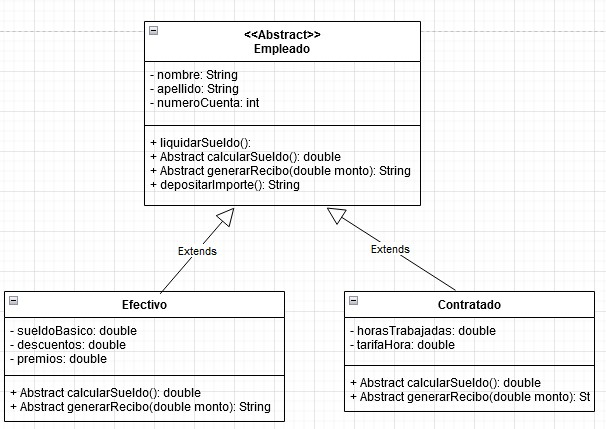
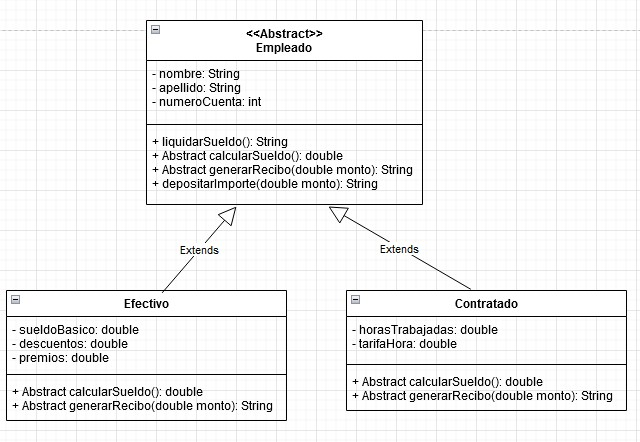
Trabajo 6 terminado

diff --git a/Ejercicio 6/src/TemplateMethod/Empleado.java b/Ejercicio 6/src/TemplateMethod/Empleado.java
@@ -11,29 +11,34 @@ public abstract class Empleado {
         this.numeroCuenta = numeroCuenta;
     }
 
-    public void liquidarSueldo() {
+    public String liquidarSueldo() {
         double sueldoTotal = calcularSueldo();
+        String respuesta = "Error";
         if (sueldoTotal < 0.1) {
             try {
-                throw new Exception("Error, al intentar calcular la liquidacion, el sueldo no puede ser 0 o menor.");
+                throw new Exception("Error, al intentar calcular la liquidación, el sueldo no puede ser 0 o menor.");
             } catch (Exception e) {
                 e.printStackTrace();
             }
         } else {
             String recibo = generarRecibo(sueldoTotal);
-            depositarImporte(sueldoTotal, recibo);
+            respuesta = depositarImporte(sueldoTotal, recibo);
         }
-
+        return respuesta;
     }
 
     public abstract double calcularSueldo();
 
     public abstract String generarRecibo(double monto);
 
-    public void depositarImporte(double monto, String recibo) {
+    public String depositarImporte(double monto, String recibo) {
+        String respuesta = "Error";
         if (monto > 0) {
-            System.out.println("La liquidacion generada es un documento " + recibo + ". Saldo a liquidar: " + monto + ".");
+            respuesta = "La liquidación generada es un documento " + recibo + ". Saldo a liquidar: " + monto;
+            System.out.println(respuesta);
+
         }
+        return respuesta;
     }
 
     public String getNombre() {
@@ -61,4 +66,4 @@ public abstract class Empleado {
     }
 }
 
-//“La liquidación generada es un documento impreso. Saldo a liquidar: 840”.
+

diff --git a/Ejercicio 6/src/TemplateMethod/TestGeneral.java b/Ejercicio 6/src/TemplateMethod/TestGeneral.java
@@ -1,0 +1,26 @@
+package TemplateMethod;
+
+import org.junit.jupiter.api.BeforeAll;
+import org.junit.jupiter.api.Test;
+
+import static org.junit.jupiter.api.Assertions.*;
+
+class TestGeneral {
+
+    private static Efectivo efectivo;
+    private static Contratado contratado;
+    private static Efectivo efectivoError;
+
+    @BeforeAll
+    public static void crearEmpleados(){
+    efectivo = new Efectivo("Martin","Martiti",111,400,40,60);
+    contratado = new Contratado("Pompilia","Pompini",222,120,7);
+    efectivoError = new Efectivo("Martin","Martiti",111,400,500,60);
+    }
+
+    @Test
+    public void liquidarSueldos(){
+        assertEquals(efectivo.liquidarSueldo(),"La liquidación generada es un documento digital. Saldo a liquidar: 420.0");
+        assertEquals(contratado.liquidarSueldo(),"La liquidación generada es un documento impreso. Saldo a liquidar: 840.0");
+    }
+}
